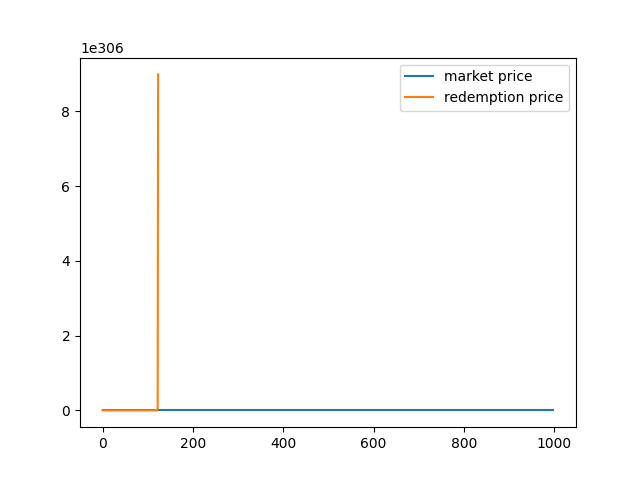
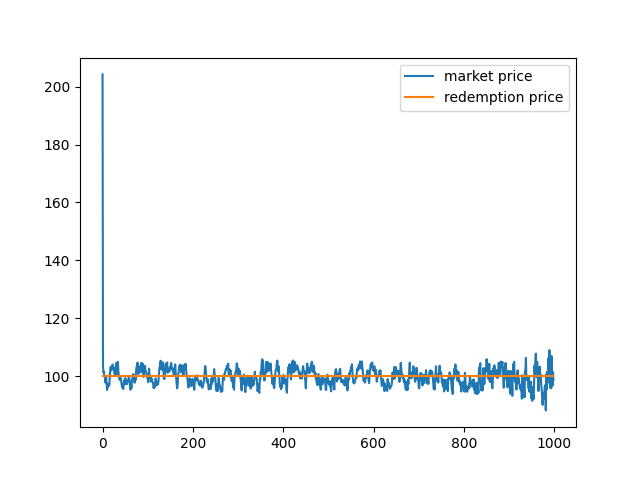
add traders with fixed redemption price

diff --git a/simulations/sim1.py b/simulations/sim1.py
@@ -8,77 +8,33 @@ import matplotlib.pyplot as plt
 import csv
 import numpy as np
 import pi_controller
+from utils.classes import *
+from utils.constants import *
+from trader import *
 
 exp = Experiment()
 
-NUM_TRADERS = 20
-PERC_RISKY_TRADERS = 0.2
-PERC_MODERATE_TRADERS = 0.3
-PERC_SAFE_TRADERS = 1 - PERC_MODERATE_TRADERS - PERC_RISKY_TRADERS
-
-PERCENT_BOUND_HIGH = 0.2
-PERCENT_BOUND_MID = 0.3
-PERCENT_BOUND_LOW = 1 - PERCENT_BOUND_HIGH - PERCENT_BOUND_MID
-MONTE_CARLO_SIMULATIONS = 1
-
-eth_noi_pool = {'eth': 100, 'noi': 10000}
-
-
-genesis_states = {
-}
-
-
-class Trader:
-    def __init__(self, name, eth, noi, perc_amount, relative_gap):
-        self.name = name
-        self.eth = eth
-        self.noi = noi
-        self.perc_amount = perc_amount
-        self.relative_gap = relative_gap
-
-# percentage of traders resource when trading
-def get_trader_perc_amount() -> float:
-    p = np.random.random()
-    if p < PERC_RISKY_TRADERS:
-        return 0.9
-    p -= PERC_RISKY_TRADERS
-    if p < PERC_MODERATE_TRADERS:
-        return 0.7
-    return 0.3
-
-# relative difference between redemption price and market price when trader is activated
-def get_trader_relative_gap():
-    p = np.random.random()
-    if p < PERCENT_BOUND_HIGH:
-        return 0.02
-    p -= PERCENT_BOUND_HIGH
-    if p < PERCENT_BOUND_MID:
-        return 0.06
-    return 0.1
-
+genesis_states = {}
 
 traders = dict()
 for i in range(NUM_TRADERS):
     name = 'trader' + str(i)
-    perc_amount = get_trader_perc_amount()
-    relative_gap = get_trader_relative_gap()
-    traders[name] = Trader(name, 100, 100, perc_amount, relative_gap)
+    traders[name] = create_new_trader(name, ETH_AMOUNT_TRADER, NOI_AMOUNT_TRADER)
 
 genesis_states['agents'] = {'traders': traders}
 
+price_station = PriceStation(100, 100, 0)
+data_station = DataStation()
+pool = Pool(ETH_AMOUNT_POOL, NOI_AMOUNT_POOL)
+graph = Graph()
 
-eth_dollar = []
-eth_amount_graph = [eth_noi_pool['eth']]
-noi_amount_graph = [eth_noi_pool['noi']]
-market_prices = []
-redemption_prices = []
-market_price = 0
-redemption_price = 2.71828182846
-accumulated_leak = 0
+
+graph.eth = [pool.eth]
+graph.noi = [pool.noi]
 
 with open('dataset/eth_dollar.csv', 'r') as csvfile:
     eth_dollar = list(csv.reader(csvfile))[0]
-    eth_dollar = [float(i) for i in eth_dollar]
+    data_station.eth_dollar = [float(i) for i in eth_dollar]
 
 
 def get_current_timestep(cur_substep, previous_state):
@@ -86,72 +42,72 @@ def get_current_timestep(cur_substep, previous_state):
         return previous_state['timestep']+1
     return previous_state['timestep']
 
+def get_eth_value(substep, previous_state):
+    return data_station.eth_dollar[get_current_timestep(substep, previous_state)]
 
-def create_trader(trader: Trader, eth_add, noi_add):
-    return Trader(trader.name, trader.eth - eth_add, trader.noi - noi_add, trader.perc_amount, trader.relative_gap)
 
 def exchange_noi_to_eth(noi_value):
-    return noi_value * eth_noi_pool['noi'] / eth_noi_pool['eth']
+    return noi_value * (pool.eth / pool.noi)
+
 
 def exchange_eth_to_noi(eth_value):
-    return eth_value * eth_noi_pool['eth'] / eth_noi_pool['noi']
+    return eth_value * (pool.noi / pool.eth)
 
 
 def update_traders(substep,  previous_state, policy_input):
-    eth_value = eth_dollar[get_current_timestep(substep, previous_state)]
     ret = dict()
     for i in range(NUM_TRADERS):
         name = 'trader' + str(i)
-        trader = previous_state['agents']['traders'][name]
-        noi_mp = calculate_market_price(substep, previous_state, False)
-        noi_rp = redemption_price
-        relative_gap = pi_controller.absolute(noi_mp - noi_rp) / noi_mp
-        if relative_gap < trader.relative_gap:
-            ret[name] = create_trader(trader, 0, 0)
+        trader:Trader = previous_state['agents']['traders'][name]
+        relative_gap = pi_controller.absolute(price_station.mp - price_station.rp) / price_station.rp
+        if relative_gap < trader.relative_gap or pool.eth < 0.1:
+            ret[name] = create_modified_trader(trader, 0, 0)
             continue
-
-        # buy eth
-        noi_add = +1*trader.noi * trader.perc_amount # value of noi to be added to pool
-        eth_add = -1*exchange_noi_to_eth(noi_add) # value of eth to be added to pool
-        if noi_mp < noi_rp:
-            # buy noi
+        # buy eth, sell noi
+        noi_add = +1*trader.noi * trader.perc_amount  # value of noi to be added to pool
+        # value of eth to be added to pool
+        eth_add = -1*exchange_noi_to_eth(noi_add)
+        if price_station.mp < price_station.rp:
+            # buy noi, sell eth
             eth_add = +1*trader.eth * trader.perc_amount
             noi_add = -1*exchange_eth_to_noi(eth_add)
-            
-        if (eth_noi_pool['noi'] + noi_add <= 0
-        or eth_noi_pool['eth'] + eth_add <= 0
+
+        if (pool.noi + noi_add <= 0
+        or pool.eth + eth_add <= 0
         or trader.eth - eth_add <= 0
         or trader.noi - noi_add <= 0):
+            #TODO ako nema dovoljno para u poolu da uzme deo ili nesto tako(zbog velikih tradera)
             eth_add = 0
             noi_add = 0
         change_market_pool(substep, previous_state, eth_add, noi_add)
-        ret[name] = create_trader(trader, eth_add, noi_add)
-    eth_amount_graph.append(eth_noi_pool['eth'])
-    noi_amount_graph.append(eth_noi_pool['noi'])
+        ret[name] = create_modified_trader(trader, eth_add, noi_add)
+    graph.eth.append(pool.eth)
+    graph.noi.append(pool.noi)
     return ret
 
 
 def calculate_market_price(substep, previous_state, write: bool) -> float:
-    global market_price
-    market_price = eth_noi_pool['eth']/eth_noi_pool['noi'] * \
-        eth_dollar[get_current_timestep(substep, previous_state)]
+    global price_station
+    price_station.mp = pool.eth/pool.noi * get_eth_value(substep, previous_state)
     if write:
-        market_prices.append(market_price)
-        redemption_prices.append(redemption_price)
-    return market_price
+        graph.m_prices.append(price_station.mp)
+        graph.r_prices.append(price_station.rp)
+    return price_station.mp
 
 
-def change_market_pool(substep, previous_state, noi_value, eth_value):
-    global redemption_price, market_price
-    eth_noi_pool['eth'] += eth_value
-    eth_noi_pool['noi'] += noi_value
-    market_price = calculate_market_price(substep, previous_state, False)
+def change_market_pool(substep, previous_state, eth_add, noi_add):
+    global price_station
+    pool.eth += eth_add
+    pool.noi += noi_add
+    price_station.mp = calculate_market_price(substep, previous_state, False)
     rr = calculate_redemption_rate()
-    redemption_price = (1+(rr-1)/3)*redemption_price
-    print(1+(rr-1)/3)
+    price_station.rp = (1+(rr-1)/3)*price_station.rp
+    # print(1+(rr-1)/3)
+
 
 def calculate_redemption_rate():
-    rr = pi_controller.computeRate(market_price, redemption_price, accumulated_leak)
+    rr = 1
+    # rr = pi_controller.computeRate(market_price, redemption_price, accumulated_leak)
     return rr
 
 
@@ -202,12 +158,19 @@ simulation_result.set_index(['subset', 'run', 'timestep', 'substep'])
 
 # print(noi_amount)
 plt.figure()
-# plt.plot(noi_amount_graph)
-# plt.plot(eth_amount_graph)
-plt.plot(market_prices)
-plt.plot(redemption_prices)
-# print(redemption_prices)
+
+plt.plot(graph.eth)
+plt.plot(graph.noi)
+plt.legend(['noi amount', 'eth amount'])
+
+plt.savefig('images/amounts.png')
+
+plt.figure()
+
+plt.plot(graph.m_prices)
+plt.plot(graph.r_prices)
 plt.legend(['market price', 'redemption price'])
+
 plt.savefig('images/novi_lol.png')
 
 # plt.figure()

diff --git a/simulations/trader.py b/simulations/trader.py
@@ -1,0 +1,38 @@
+from utils.constants import *
+import numpy as np
+
+class Trader:
+    def __init__(self, name, eth, noi, perc_amount, relative_gap):
+        self.name = name
+        self.eth = eth
+        self.noi = noi
+        self.perc_amount = perc_amount
+        self.relative_gap = relative_gap
+
+def create_new_trader(name, eth_amount, noi_amount):
+    return Trader(name, eth_amount, noi_amount, get_trader_perc_amount(), get_trader_relative_gap())
+
+def create_modified_trader(trader: Trader, eth_add, noi_add):
+    return Trader(trader.name, trader.eth - eth_add, trader.noi - noi_add, trader.perc_amount, trader.relative_gap)
+
+# percentage of traders resource when trading
+def get_trader_perc_amount() -> float:
+    p = np.random.random()
+    if p < PERC_RISKY_TRADERS:
+        return 0.9
+    p -= PERC_RISKY_TRADERS
+    if p < PERC_MODERATE_TRADERS:
+        return 0.7
+    return 0.3
+
+# relative difference between redemption price and market price when trader is activated
+
+
+def get_trader_relative_gap():
+    p = np.random.random()
+    if p < PERCENT_BOUND_HIGH:
+        return 0.03
+    p -= PERCENT_BOUND_HIGH
+    if p < PERCENT_BOUND_MID:
+        return 0.06
+    return 0.1

diff --git a/simulations/utils/classes.py b/simulations/utils/classes.py
@@ -1,0 +1,21 @@
+class PriceStation:
+    def __init__(self, market_price, redemption_price, accumulated_leak):
+        self.mp = market_price
+        self.rp = redemption_price
+        self.accumulated_leak = accumulated_leak
+
+class Pool:
+    def __init__(self, eth_amount:float, noi_amount:float):
+        self.noi = noi_amount
+        self.eth = eth_amount
+
+class DataStation:
+    def __init__(self):
+        self.eth_dollar = []
+
+class Graph:
+    def __init__(self):
+        self.eth = []
+        self.noi = []
+        self.r_prices = []
+        self.m_prices = []

diff --git a/simulations/utils/constants.py b/simulations/utils/constants.py
@@ -1,0 +1,15 @@
+NUM_TRADERS = 2500
+PERC_RISKY_TRADERS = 0.2
+PERC_MODERATE_TRADERS = 0.3
+PERC_SAFE_TRADERS = 1 - PERC_MODERATE_TRADERS - PERC_RISKY_TRADERS
+
+PERCENT_BOUND_HIGH = 0.3
+PERCENT_BOUND_MID = 0.2
+PERCENT_BOUND_LOW = 1 - PERCENT_BOUND_HIGH - PERCENT_BOUND_MID
+MONTE_CARLO_SIMULATIONS = 1
+
+ETH_AMOUNT_TRADER = 2
+NOI_AMOUNT_TRADER = 10
+
+ETH_AMOUNT_POOL = 1000
+NOI_AMOUNT_POOL = 5000
